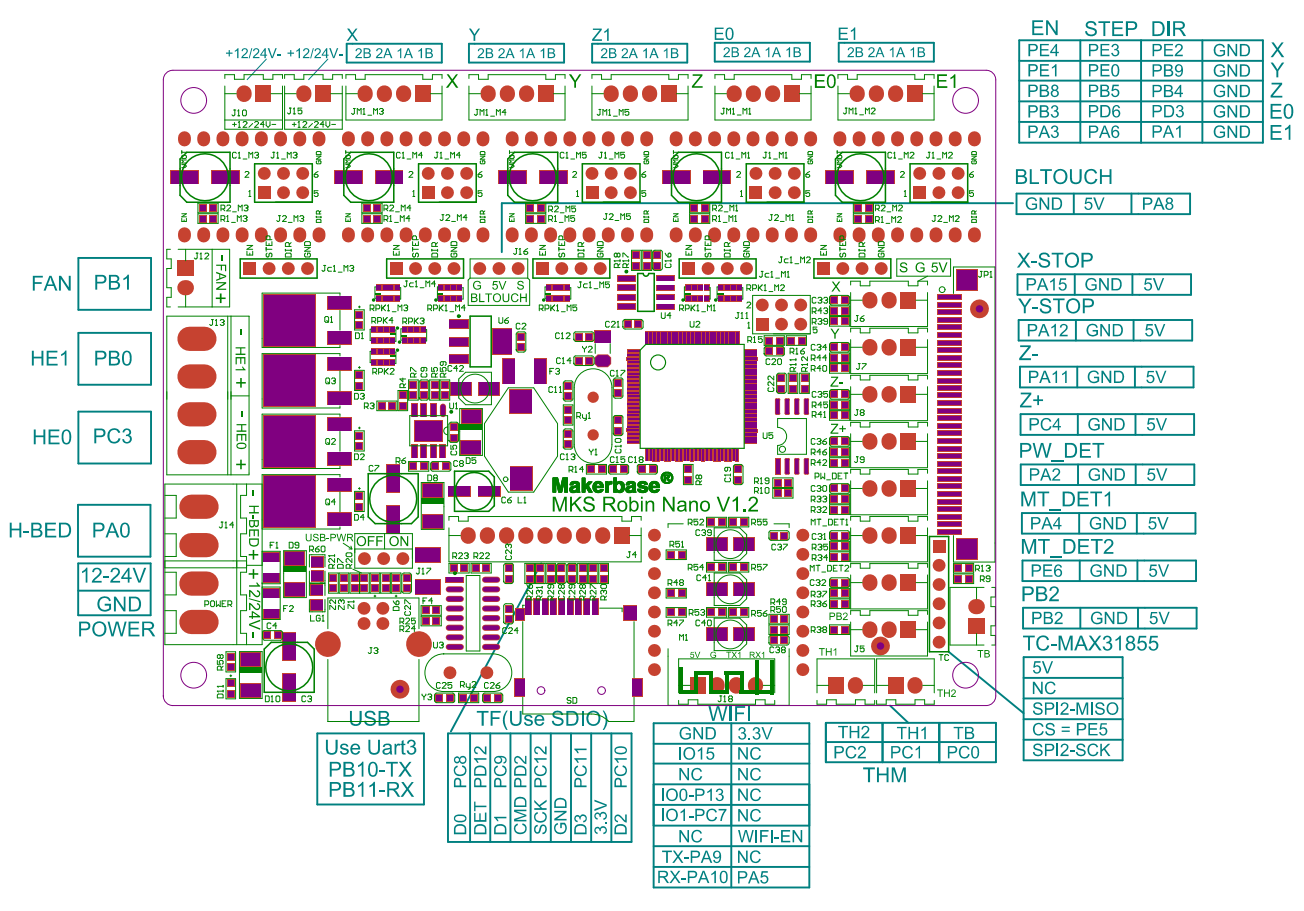
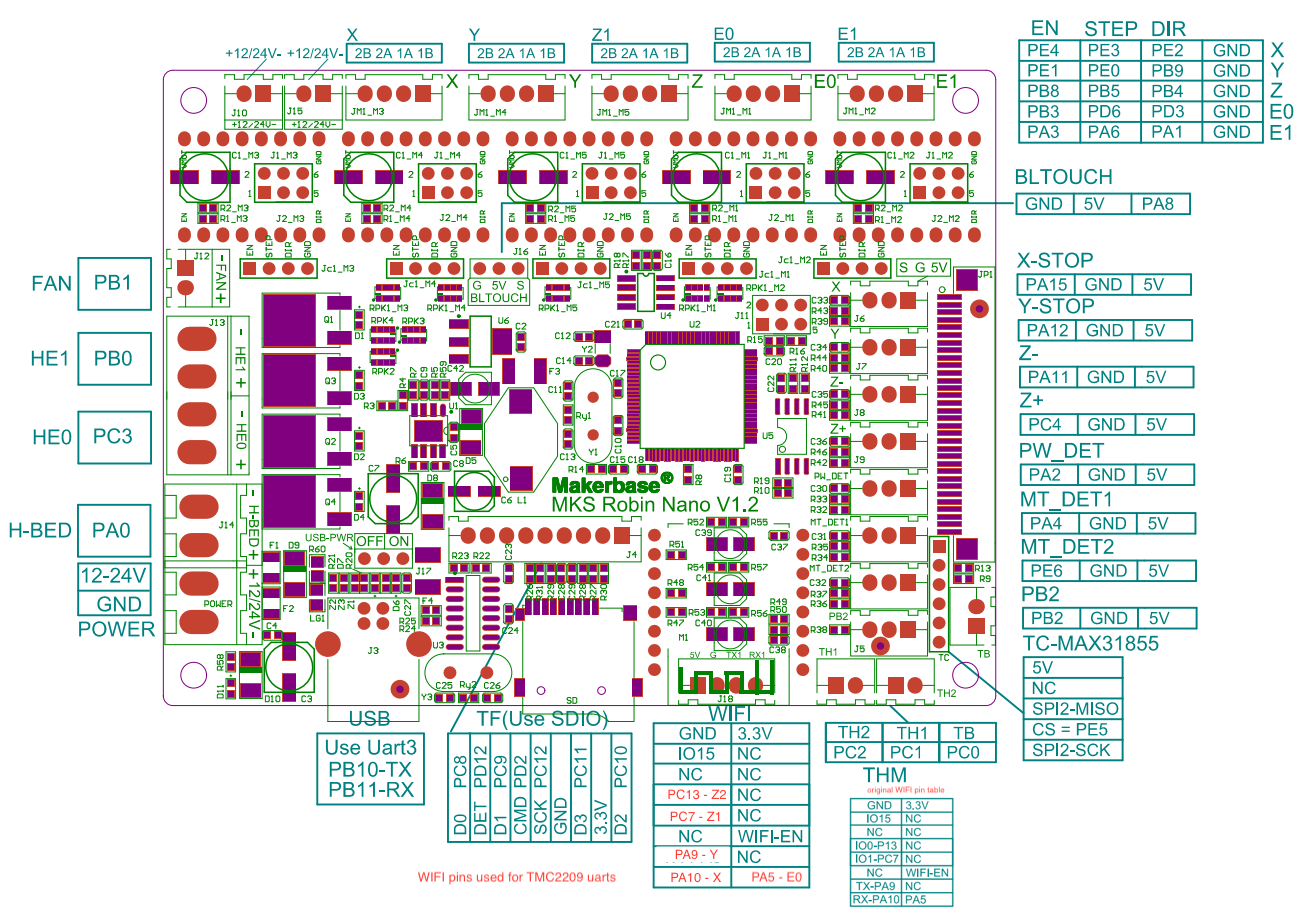
TMC2209 connections split; one io pin per uart. The MKS Robin Nano pin diagram has a tiny error on wifi pins; an edited version is captured

Changed region(s): [[0.6442, 0.8606, 0.7362, 1.0], [0.4908, 0.8606, 0.6135, 0.9835], [0.3067, 0.9528, 0.4601, 0.9835]]

diff --git a/Marlin/src/pins/stm32f1/pins_MKS_ROBIN_NANO.h b/Marlin/src/pins/stm32f1/pins_MKS_ROBIN_NANO.h
@@ -166,23 +166,23 @@
 // UART
 #if HAS_TMC_UART
 
-    #define X_SERIAL_TX_PIN                   PA9 // TC-MAX31855  CS pin 
+    #define X_SERIAL_TX_PIN                   PA10 // TC-MAX31855  CS pin 
     #define X_SERIAL_RX_PIN                   X_SERIAL_TX_PIN
 
-    #define Y_SERIAL_TX_PIN                   X_SERIAL_TX_PIN
-    #define Y_SERIAL_RX_PIN                   X_SERIAL_TX_PIN
+    #define Y_SERIAL_TX_PIN                   PA9
+    #define Y_SERIAL_RX_PIN                   Y_SERIAL_TX_PIN
 
-    #define Z_SERIAL_TX_PIN                   X_SERIAL_TX_PIN
-    #define Z_SERIAL_RX_PIN                   X_SERIAL_TX_PIN
+    #define Z_SERIAL_TX_PIN                   PC7
+    #define Z_SERIAL_RX_PIN                   Z_SERIAL_TX_PIN
 
 //    #define E0_SERIAL_TX_PIN                  X_SERIAL_TX_PIN
     #define E0_SERIAL_TX_PIN                  PA5 // wifi PA5 pin
     #define E0_SERIAL_RX_PIN                  E0_SERIAL_TX_PIN
 
-    #define E1_SERIAL_TX_PIN                  X_SERIAL_TX_PIN
+    #define E1_SERIAL_TX_PIN                  PC13
     #define E1_SERIAL_RX_PIN                  E1_SERIAL_TX_PIN
-    #define Z2_SERIAL_TX_PIN                  E1_SERIAL_TX_PIN
-    #define Z2_SERIAL_RX_PIN                  E1_SERIAL_TX_PIN
+    #define Z2_SERIAL_TX_PIN                  PC13
+    #define Z2_SERIAL_RX_PIN                  Z2_SERIAL_TX_PIN
 
 //    #define E1_SERIAL_TX_PIN                  PA10
 //    #define E1_SERIAL_RX_PIN                  E1_SERIAL_TX_PIN

diff --git a/Marlin/Configuration_adv.h b/Marlin/Configuration_adv.h
@@ -2470,11 +2470,11 @@
   //              <- board power M1 M2 M3 -> endstops
 
   #define  X_SLAVE_ADDRESS 0 // :  :  :
-  #define  Y_SLAVE_ADDRESS 1 // |  :  :
-  #define  Z_SLAVE_ADDRESS 2 // :  |  :
+  #define  Y_SLAVE_ADDRESS 0 // |  :  :
+  #define  Z_SLAVE_ADDRESS 0 // :  |  :
   #define X2_SLAVE_ADDRESS 0
   #define Y2_SLAVE_ADDRESS 0
-  #define Z2_SLAVE_ADDRESS 3 // |  |  :
+  #define Z2_SLAVE_ADDRESS 0 // |  |  :
   #define Z3_SLAVE_ADDRESS 0
   #define Z4_SLAVE_ADDRESS 0
   #define E0_SLAVE_ADDRESS 0 // :  :  :
